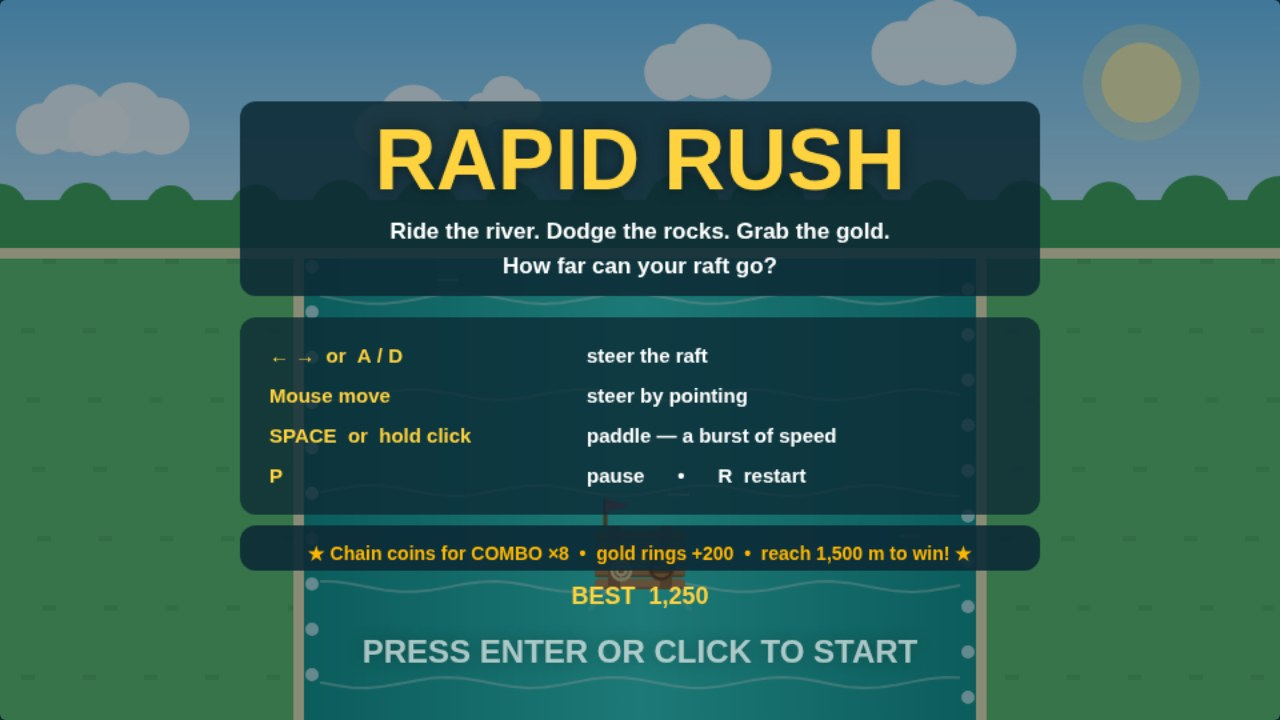
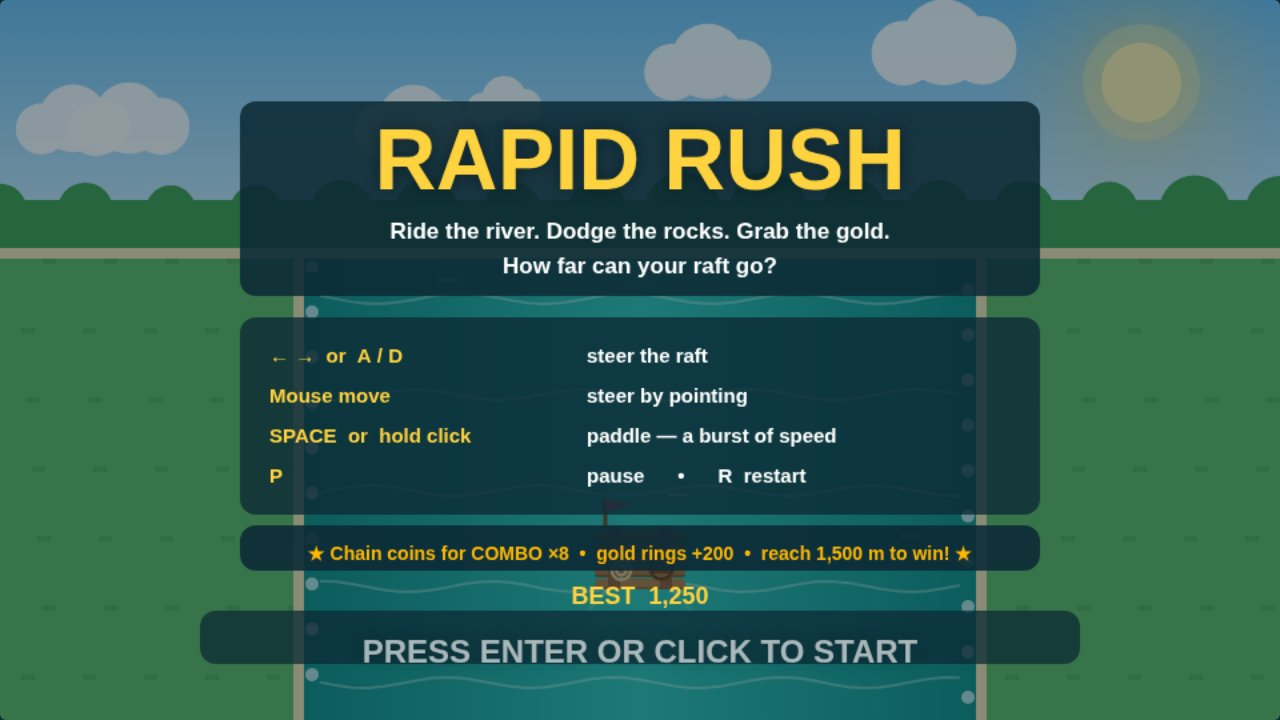
Rapid Rush v3: golden sun halo, prompt contrast pills, win headline glow
Polish-only micro-sprint: warm radial halo around the sun (all
scenes), dark pills behind the title and replay prompts so they read
over bright water/scene, golden glow behind RIVER CONQUERED!.
No rule, scoring, win/lose, or control changes; vendor untouched.

Changed region(s): [[0.1562, 0.825, 0.8438, 0.9472], [0.8438, 0.1528, 0.875, 0.2139], [0.8438, 0.0306, 0.875, 0.0917]]

diff --git a/game/src/hud.js b/game/src/hud.js
@@ -237,6 +237,8 @@ export function drawTitle(ctx, game) {
     ctx.textAlign = 'center';
     ctx.fillText(`BEST  ${game.best.toLocaleString('en-US')}`, VIEW_W / 2, 448);
   }
+  // Dark pill behind the start prompt so it reads over bright water.
+  panel(ctx, VIEW_W / 2 - 330, 458, 660, 40, 0.75);
   const blink = 0.65 + 0.35 * Math.sin(game.world.time * 4);
   ctx.save();
   ctx.globalAlpha = blink;
@@ -266,6 +268,12 @@ export function drawGameOver(ctx, game) {
 
 export function drawWin(ctx, game) {
   dim(ctx, 0.5);
+  // Golden glow behind the conquest headline.
+  const glow = ctx.createRadialGradient(VIEW_W / 2, 104, 10, VIEW_W / 2, 104, 300);
+  glow.addColorStop(0, 'rgba(255, 210, 63, 0.30)');
+  glow.addColorStop(1, 'rgba(255, 210, 63, 0)');
+  ctx.fillStyle = glow;
+  ctx.fillRect(VIEW_W / 2 - 300, 0, 600, 240);
   bigTitle(ctx, 'RIVER CONQUERED!', 96, 52, '#ffd23f');
   ctx.fillStyle = '#ffffff';
   ctx.font = 'bold 18px sans-serif';
@@ -282,6 +290,8 @@ function endPrompt(ctx, game, text) {
     ctx.textAlign = 'center';
     ctx.fillText('★ NEW BEST SCORE! ★', VIEW_W / 2, 424);
   }
+  // Dark pill behind the replay prompt so it reads over the scene.
+  panel(ctx, VIEW_W / 2 - 300, 436, 600, 38, 0.7);
   const blink = 0.65 + 0.35 * Math.sin(game.world.time * 4);
   ctx.save();
   ctx.globalAlpha = blink;

diff --git a/game/src/render.js b/game/src/render.js
@@ -96,8 +96,15 @@ function drawSky(ctx, palette, time) {
   ctx.fillStyle = gradient;
   ctx.fillRect(0, 0, VIEW_W, 190);
 
-  // Sun, top right.
+  // Sun, top right — a warm golden halo so the sky reads bright and
+  // lantern-lit even in a small screenshot.
   ctx.save();
+  const halo = ctx.createRadialGradient(856, 62, 8, 856, 62, 110);
+  halo.addColorStop(0, 'rgba(255, 214, 90, 0.55)');
+  halo.addColorStop(0.5, 'rgba(255, 214, 90, 0.18)');
+  halo.addColorStop(1, 'rgba(255, 214, 90, 0)');
+  ctx.fillStyle = halo;
+  ctx.fillRect(856 - 110, 62 - 110, 220, 220);
   ctx.fillStyle = '#fff3b0';
   ctx.beginPath();
   ctx.arc(856, 62, 30, 0, Math.PI * 2);
